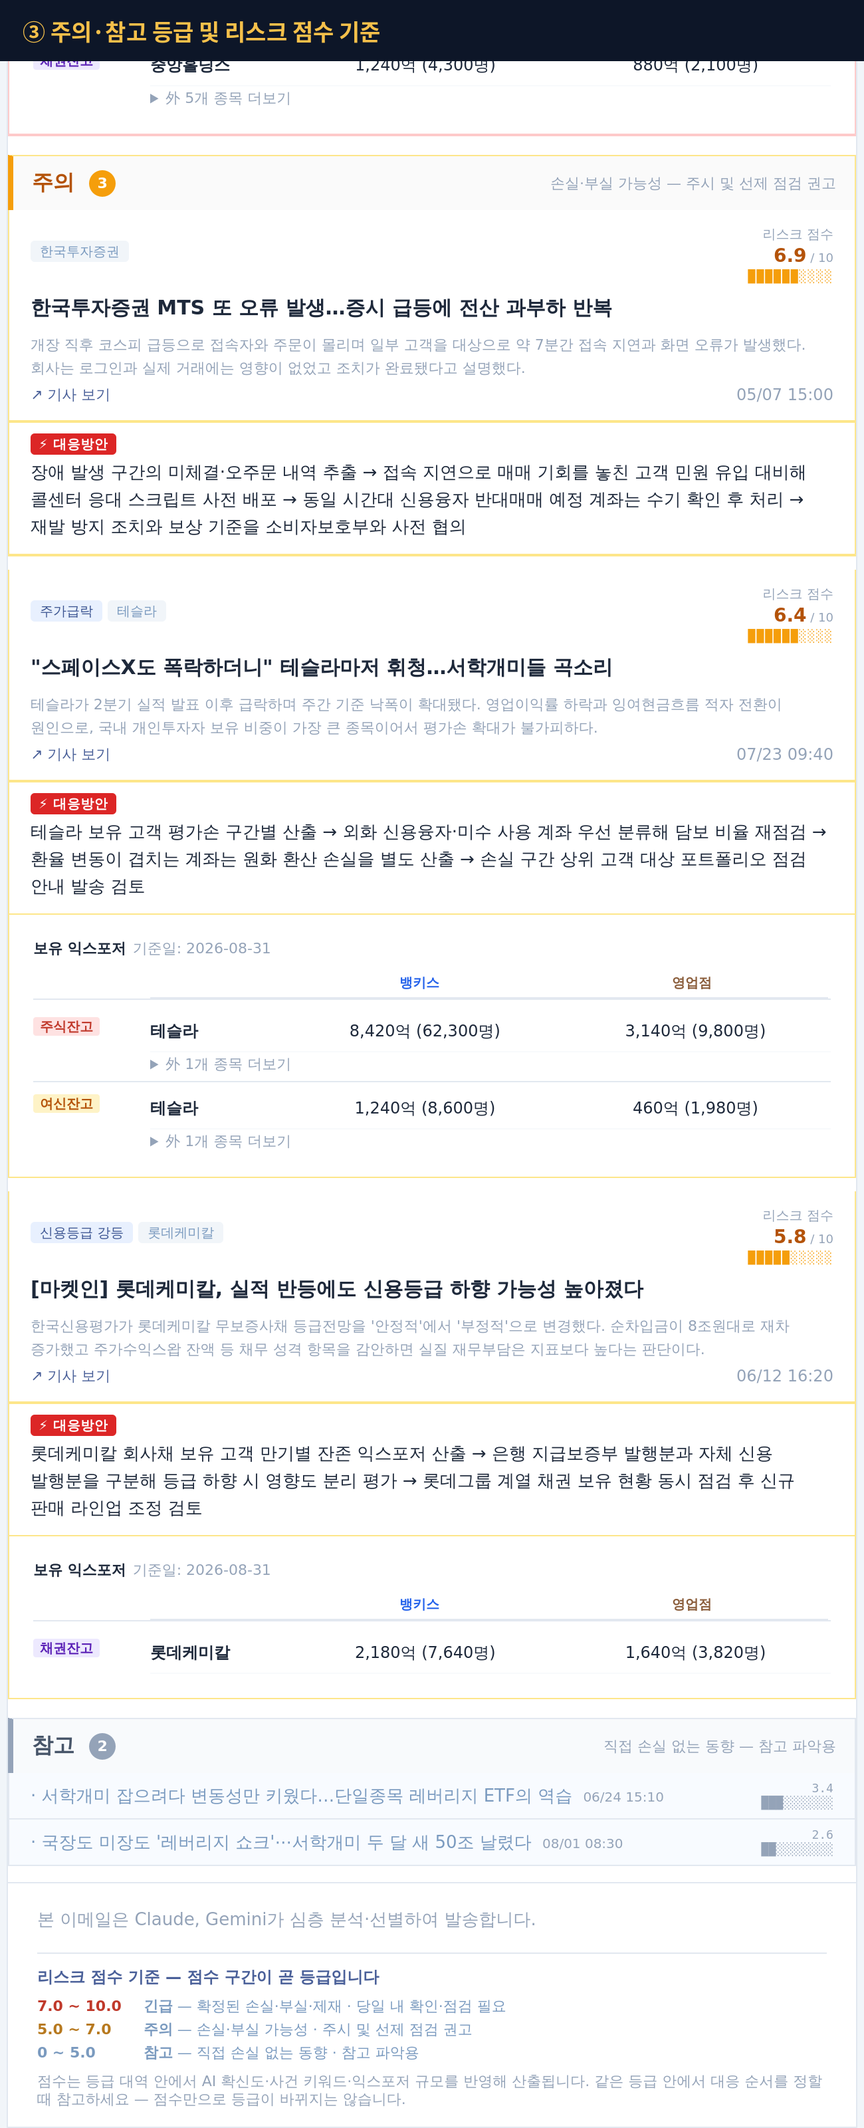
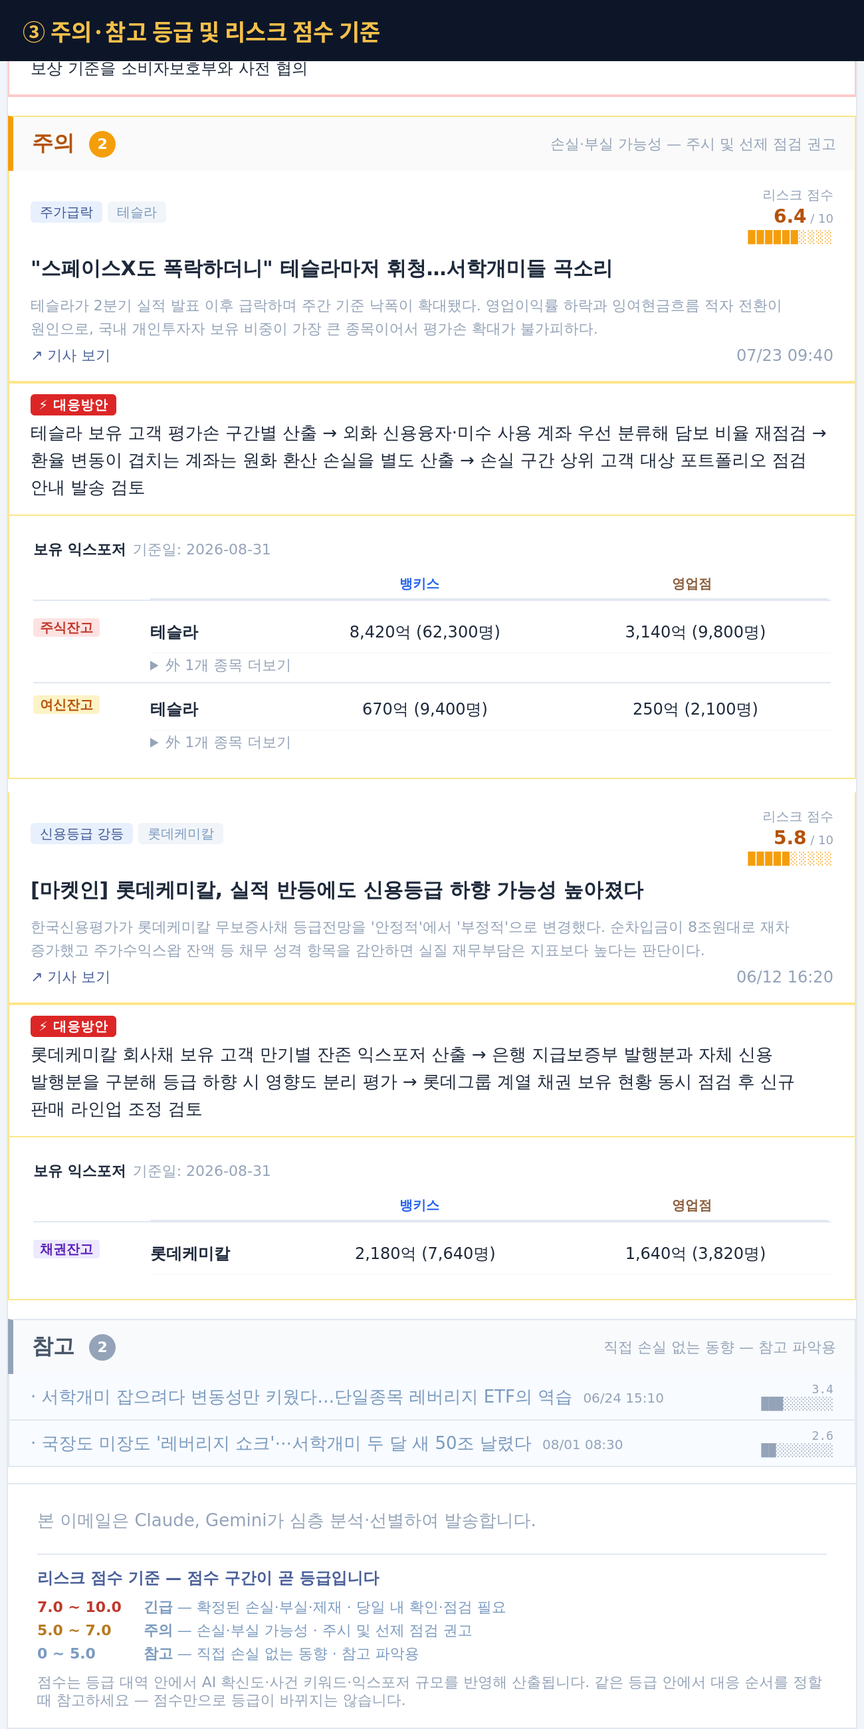
전산오류 긴급 복귀 · 해외 담보대출 잔고 현실 비율 조정

diff --git a/index.html b/index.html
@@ -76,14 +76,14 @@
             수집 1287건 &nbsp;·&nbsp; <span style="color:#6ee7b7;font-weight:600;">6건 선별</span>
           </td>
           <td align="right" style="font-size:12px;white-space:nowrap;">
-            <span style="color:#ef4444;font-weight:700;">긴급 1</span>
+            <span style="color:#ef4444;font-weight:700;">긴급 2</span>
             <span style="color:#4a6099;margin:0 5px;">·</span>
-            <span style="color:#f59e0b;font-weight:700;">주의 3</span>
+            <span style="color:#f59e0b;font-weight:700;">주의 2</span>
             <span style="color:#4a6099;margin:0 5px;">·</span>
             <span style="color:#94a3b8;font-weight:700;">참고 2</span>
           </td>
         </tr>
-        <tr><td colspan="2" style="padding-top:5px;font-size:11px;color:#c8d8f0;letter-spacing:0.2px;">💡 중앙그룹 5개사 동시 회생절차 신청으로 계열 채권 보유 고객의 원금 회수 위험이 현실화됐습니다. 주의 등급에는 당사 MTS 장애 보도, 테슬라·스페이스엑스 급락에 따른 해외주식 평가손, 롯데케미칼 등급전망 하향이 포함됐고, 참고 2건은 단일종목 레버리지 상품 변동성 확대입니다. 계열 채권 만기 물량, 장애 시간대 미체결 내역, 해외주식 신용 계좌를 우선 점검하시기 바랍니다.</td></tr>
+        <tr><td colspan="2" style="padding-top:5px;font-size:11px;color:#c8d8f0;letter-spacing:0.2px;">💡 중앙그룹 5개사 동시 회생절차 신청으로 계열 채권 보유 고객의 원금 회수 위험이 현실화됐습니다. 당사 MTS 장애 보도도 함께 긴급으로 탐지됐습니다. 주의 등급은 테슬라·스페이스엑스 급락에 따른 해외주식 평가손과 롯데케미칼 등급전망 하향이며, 참고 2건은 단일종목 레버리지 상품 변동성 확대입니다. 계열 채권 만기 물량, 장애 시간대 미체결 내역, 해외주식 신용 계좌를 우선 점검하시기 바랍니다.</td></tr>
       </table>
     </td>
   </tr>
@@ -195,7 +195,7 @@
           <span style="font-size:16px;font-weight:700;color:#3b5491;">📰 리스크 뉴스</span>
         </td>
         <td align="right" style="padding:10px 14px;font-size:10px;color:#94a3b8;white-space:nowrap;">
-          긴급 1 &nbsp;·&nbsp; 주의 3 &nbsp;·&nbsp; 참고 2
+          긴급 2 &nbsp;·&nbsp; 주의 2 &nbsp;·&nbsp; 참고 2
         </td>
       </tr>
     </table>
@@ -206,7 +206,7 @@
           <tr>
             <td style="padding:10px 14px;">
               <span style="font-size:16px;font-weight:bold;color:#dc2626;">긴급</span>
-              <span style="display:inline-block;width:20px;height:20px;line-height:20px;text-align:center;background:#ef4444;color:#fff;font-size:11px;font-weight:700;border-radius:50%;margin-left:6px;vertical-align:middle;">1</span>
+              <span style="display:inline-block;width:20px;height:20px;line-height:20px;text-align:center;background:#ef4444;color:#fff;font-size:11px;font-weight:700;border-radius:50%;margin-left:6px;vertical-align:middle;">2</span>
             </td>
             <td align="right" class="grade-header-right" style="padding:10px 14px;white-space:nowrap;">
               <span style="font-size:11px;background:#fee2e2;color:#c0392b;padding:2px 10px;border-radius:10px;font-weight:600;">확정된 손실·부실·제재 — 당일 내 확인·점검 필요</span>
@@ -239,36 +239,37 @@
       </td></tr>
     </table></td></tr></table></td></tr>
         </table>
+        <table width="100%" cellpadding="0" cellspacing="0" border="0" style="border:1px solid #fecaca;border-top:none;background:#ffffff;margin-bottom:0;">
+          <tr>
+            <td class="card-bg card-inner" bgcolor="#fff8f8" style="padding:12px 16px;background:#fff8f8;border-bottom:1px solid #f5c6c6;">
+              <table width="100%" cellpadding="0" cellspacing="0" border="0" style="margin-bottom:8px;">
+                <tr>
+                  <td class="badge-wrap" style="word-break:keep-all;"><span style="font-size:10px;background:#f1f5f9;color:#4a6099;padding:2px 7px;border-radius:3px;font-weight:600;white-space:nowrap;display:inline-block;">한국투자증권</span></td>
+                  <td align="right" valign="top" style="white-space:nowrap;padding-left:8px;"><div style="text-align:right;min-width:90px;"><div style="font-size:10px;color:#94a3b8;margin-bottom:2px;">리스크 점수</div><div style="font-size:14px;font-weight:700;color:#c0392b;margin-bottom:2px;">7.5<span style="font-size:9px;color:#94a3b8;font-weight:400;"> / 10</span></div><div style="font-size:9px;color:#c0392b;letter-spacing:1px;font-family:monospace;">███████░░░</div></div></td>
+                </tr>
+              </table>
+              <a href="https://www.speconomy.com/news/articleView.html?idxno=413529" class="title-link" style="font-weight:700;font-size:16px;text-decoration:none;color:#1e293b;line-height:1.6;word-break:keep-all;display:block;">한국투자증권 MTS 또 오류 발생…증시 급등에 전산 과부하 반복</a>
+              <table width="100%" cellpadding="0" cellspacing="0" border="0" style="margin:5px 0 8px 0;">
+                <tr>
+                  <td style="font-size:13px;"><a href="https://www.speconomy.com/news/articleView.html?idxno=413529" style="color:#4a6099;text-decoration:none;font-weight:500;">↗ 기사 보기</a></td>
+                  <td align="right" style="font-size:12px;color:#94a3b8;">05/07 15:00</td>
+                </tr>
+              </table>
+              <p style="margin:0;font-size:11px;color:#94a3b8;line-height:1.6;word-break:keep-all;">개장 직후 코스피 급등으로 접속자와 주문이 몰리며 일부 고객을 대상으로 약 7분간 접속 지연과 화면 오류가 발생했다. 회사는 로그인과 실제 거래에는 영향이 없었고 조치가 완료됐다고 설명했다.</p>
+            </td>
+          </tr>
+          <tr><td bgcolor="#fff8f8" style="background:#fff8f8;border-top:1px solid #fecaca;padding:0;"><table width="100%" cellpadding="0" cellspacing="0" border="0"><tr><td class="action-td" bgcolor="#ffffff" style="padding:10px 16px;border-bottom:1px solid #fecaca;background:#ffffff;"><p style="margin:0 0 5px 0;font-size:11px;font-weight:bold;letter-spacing:0.3px;"><span style="background:#dc2626;color:#fff;padding:2px 6px;font-size:10px;margin-right:5px;border-radius:3px;">⚡ 대응방안</span></p><p style="margin:0;font-size:12px;color:#1e293b;line-height:1.6;font-weight:600;word-break:keep-all;">장애 발생 구간의 미체결·오주문 내역 추출 → 접속 지연으로 매매 기회를 놓친 고객 민원 유입 대비해 콜센터 응대 스크립트 사전 배포 → 동일 시간대 신용융자 반대매매 예정 계좌는 수기 확인 후 처리 → 재발 방지 조치와 보상 기준을 소비자보호부와 사전 협의</p></td></tr></table></td></tr>
+        </table>
         <table width="100%" cellpadding="0" cellspacing="0" border="0" style="margin-top:14px;border:1px solid #fde68a;border-bottom:none;background:#fafafa;border-top:1px solid #fde68a;border-left:4px solid #f59e0b;">
           <tr>
             <td style="padding:10px 14px;">
               <span style="font-size:16px;font-weight:bold;color:#b45309;">주의</span>
-              <span style="display:inline-block;width:20px;height:20px;line-height:20px;text-align:center;background:#f59e0b;color:#fff;font-size:11px;font-weight:700;border-radius:50%;margin-left:6px;vertical-align:middle;">3</span>
+              <span style="display:inline-block;width:20px;height:20px;line-height:20px;text-align:center;background:#f59e0b;color:#fff;font-size:11px;font-weight:700;border-radius:50%;margin-left:6px;vertical-align:middle;">2</span>
             </td>
             <td align="right" class="grade-header-right" style="padding:10px 14px;white-space:nowrap;">
               <span style="font-size:11px;color:#94a3b8;">손실·부실 가능성 — 주시 및 선제 점검 권고</span>
             </td>
           </tr>
-        </table>
-        <table width="100%" cellpadding="0" cellspacing="0" border="0" style="border:1px solid #fde68a;border-top:none;background:#ffffff;margin-bottom:10px;">
-          <tr>
-            <td style="padding:12px 16px;border-bottom:1px solid #fde68a;">
-              <table width="100%" cellpadding="0" cellspacing="0" border="0" style="margin-bottom:6px;">
-                <tr>
-                  <td class="badge-wrap" style="word-break:keep-all;"><span style="display:inline-block;font-size:10px;color:#7a9abf;background:#f1f5f9;padding:2px 7px;margin-right:4px;margin-bottom:6px;border-radius:3px;white-space:nowrap;">한국투자증권</span></td>
-                  <td align="right" valign="top" style="white-space:nowrap;padding-left:8px;"><div style="text-align:right;min-width:90px;"><div style="font-size:10px;color:#94a3b8;margin-bottom:2px;">리스크 점수</div><div style="font-size:14px;font-weight:700;color:#b45309;margin-bottom:2px;">6.9<span style="font-size:9px;color:#94a3b8;font-weight:400;"> / 10</span></div><div style="font-size:9px;color:#f59e0b;letter-spacing:1px;font-family:monospace;">██████░░░░</div></div></td>
-                </tr>
-              </table>
-              <a href="https://www.speconomy.com/news/articleView.html?idxno=413529" class="title-link caution-title" style="font-weight:bold;font-size:15px;text-decoration:none;color:#1e293b;line-height:1.6;word-break:keep-all;display:block;">한국투자증권 MTS 또 오류 발생…증시 급등에 전산 과부하 반복</a><p style="margin:7px 0 0 0;font-size:11px;color:#94a3b8;line-height:1.6;word-break:keep-all;">개장 직후 코스피 급등으로 접속자와 주문이 몰리며 일부 고객을 대상으로 약 7분간 접속 지연과 화면 오류가 발생했다. 회사는 로그인과 실제 거래에는 영향이 없었고 조치가 완료됐다고 설명했다.</p>
-              <table width="100%" cellpadding="0" cellspacing="0" border="0" style="margin:4px 0 0 0;">
-                <tr>
-                  <td style="font-size:11px;"><a href="https://www.speconomy.com/news/articleView.html?idxno=413529" style="color:#4a6099;text-decoration:none;">↗ 기사 보기</a></td>
-                  <td align="right" style="font-size:12px;color:#94a3b8;">05/07 15:00</td>
-                </tr>
-              </table>
-            </td>
-          </tr>
-          <tr><td style="padding:10px 16px;background:#ffffff;border-top:1px solid #fde68a;border-bottom:1px solid #fde68a;"><p style="margin:0 0 5px 0;font-size:11px;font-weight:bold;letter-spacing:0.3px;"><span style="background:#dc2626;color:#fff;padding:2px 6px;font-size:10px;margin-right:5px;border-radius:3px;">⚡ 대응방안</span></p><p style="margin:0;font-size:13px;color:#1e293b;line-height:1.6;font-weight:500;word-break:keep-all;">장애 발생 구간의 미체결·오주문 내역 추출 → 접속 지연으로 매매 기회를 놓친 고객 민원 유입 대비해 콜센터 응대 스크립트 사전 배포 → 동일 시간대 신용융자 반대매매 예정 계좌는 수기 확인 후 처리 → 재발 방지 조치와 보상 기준을 소비자보호부와 사전 협의</p></td></tr>
         </table>
         <table width="100%" cellpadding="0" cellspacing="0" border="0" style="border:1px solid #fde68a;border-top:none;background:#ffffff;margin-bottom:10px;">
           <tr>
@@ -291,7 +292,7 @@
           <tr><td style="padding:10px 16px;background:#ffffff;border-top:1px solid #fde68a;border-bottom:1px solid #fde68a;"><p style="margin:0 0 5px 0;font-size:11px;font-weight:bold;letter-spacing:0.3px;"><span style="background:#dc2626;color:#fff;padding:2px 6px;font-size:10px;margin-right:5px;border-radius:3px;">⚡ 대응방안</span></p><p style="margin:0;font-size:13px;color:#1e293b;line-height:1.6;font-weight:500;word-break:keep-all;">테슬라 보유 고객 평가손 구간별 산출 → 외화 신용융자·미수 사용 계좌 우선 분류해 담보 비율 재점검 → 환율 변동이 겹치는 계좌는 원화 환산 손실을 별도 산출 → 손실 구간 상위 고객 대상 포트폴리오 점검 안내 발송 검토</p></td></tr><tr><td style="padding:0;"><table width="100%" cellpadding="0" cellspacing="0" border="0" style="background:#ffffff;">
       <tr><td class="exp-card-td" style="padding:14px 18px;">
         <p style="margin:0 0 10px 0;"><span style="font-size:11px;font-weight:700;color:#1e293b;">보유 익스포저</span> <span style="font-weight:400;color:#94a3b8;font-size:11px;">기준일: 2026-08-31</span></p>
-        <table width="100%" cellpadding="0" cellspacing="0" border="0" style="margin-bottom:8px;"><tr><td style="width:80px;border-bottom:1px solid #e2e8f0;">&nbsp;</td><td style="padding-left:8px;border-bottom:1px solid #e2e8f0;"><table cellpadding="0" cellspacing="0" border="0" style="border-collapse:collapse;table-layout:fixed;"><tr><td class="exp-name-td" width="100" style="border-bottom:1px solid #e2e8f0;">&nbsp;</td><td class="exp-val-td" width="205" align="center" style="box-sizing:border-box;text-align:center;padding:2px 6px 5px;font-size:10px;font-weight:700;color:#2563eb;border-bottom:1px solid #e2e8f0;white-space:nowrap;">뱅키스</td><td class="exp-val-td" width="205" align="center" style="box-sizing:border-box;text-align:center;padding:2px 6px 5px;font-size:10px;font-weight:700;color:#8b5e3c;border-bottom:1px solid #e2e8f0;white-space:nowrap;">영업점</td></tr></table></td></tr></table><table width="100%" cellpadding="0" cellspacing="0" border="0" style="margin-bottom:4px;"><tr><td valign="top" style="padding-top:6px;width:80px;white-space:nowrap;"><span style="font-size:10px;background:#fee2e2;color:#c0392b;padding:1px 5px;border-radius:2px;font-weight:700;">주식잔고</span></td><td style="padding-left:8px;"><table cellpadding="0" cellspacing="0" border="0" style="border-collapse:collapse;table-layout:fixed;"><tr style="border-bottom:1px solid #f8fafc;"><td class="exp-name-td" width="100" style="font-size:12px;font-weight:700;color:#1e293b;padding:8px 6px 8px 0;white-space:nowrap;vertical-align:top;"><div style="max-width:100%;overflow:hidden;text-overflow:ellipsis;white-space:nowrap;">테슬라</div></td><td class="exp-val-td" width="205" align="center" style="box-sizing:border-box;text-align:center;font-size:12px;color:#1e293b;padding:8px 6px;white-space:nowrap;vertical-align:top;">8,420억 (62,300명)</td><td class="exp-val-td" width="205" align="center" style="box-sizing:border-box;text-align:center;font-size:12px;color:#1e293b;padding:8px 6px;white-space:nowrap;vertical-align:top;">3,140억 (9,800명)</td></tr></table><details style="margin-top:0;"><summary style="cursor:pointer;list-style:revert;padding:2px 0;font-size:11px;color:#94a3b8;">外 1개 종목 더보기</summary><table cellpadding="0" cellspacing="0" border="0" style="border-collapse:collapse;table-layout:fixed;"><tr style="border-bottom:1px solid #f8fafc;"><td class="exp-name-td" width="100" style="font-size:12px;font-weight:700;color:#1e293b;padding:8px 6px 8px 0;white-space:nowrap;vertical-align:top;"><div style="max-width:100%;overflow:hidden;text-overflow:ellipsis;white-space:nowrap;">스페이스엑스</div></td><td class="exp-val-td" width="205" align="center" style="box-sizing:border-box;text-align:center;font-size:12px;color:#1e293b;padding:8px 6px;white-space:nowrap;vertical-align:top;">4,260억 (38,700명)</td><td class="exp-val-td" width="205" align="center" style="box-sizing:border-box;text-align:center;font-size:12px;color:#1e293b;padding:8px 6px;white-space:nowrap;vertical-align:top;">1,580억 (6,200명)</td></tr></table></details></td></tr></table><table width="100%" cellpadding="0" cellspacing="0" border="0" style="margin:4px 0;"><tr><td style="height:1px;background:#e2e8f0;font-size:0;line-height:0;">&nbsp;</td></tr></table><table width="100%" cellpadding="0" cellspacing="0" border="0" style="margin-bottom:4px;"><tr><td valign="top" style="padding-top:6px;width:80px;white-space:nowrap;"><span style="font-size:10px;background:#fef3c7;color:#b45309;padding:1px 5px;border-radius:2px;font-weight:700;">여신잔고</span></td><td style="padding-left:8px;"><table cellpadding="0" cellspacing="0" border="0" style="border-collapse:collapse;table-layout:fixed;"><tr style="border-bottom:1px solid #f8fafc;"><td class="exp-name-td" width="100" style="font-size:12px;font-weight:700;color:#1e293b;padding:8px 6px 8px 0;white-space:nowrap;vertical-align:top;"><div style="max-width:100%;overflow:hidden;text-overflow:ellipsis;white-space:nowrap;">테슬라</div></td><td class="exp-val-td" width="205" align="center" style="box-sizing:border-box;text-align:center;font-size:12px;color:#1e293b;padding:8px 6px;white-space:nowrap;vertical-align:top;">1,240억 (8,600명)</td><td class="exp-val-td" width="205" align="center" style="box-sizing:border-box;text-align:center;font-size:12px;color:#1e293b;padding:8px 6px;white-space:nowrap;vertical-align:top;">460억 (1,980명)</td></tr></table><details style="margin-top:0;"><summary style="cursor:pointer;list-style:revert;padding:2px 0;font-size:11px;color:#94a3b8;">外 1개 종목 더보기</summary><table cellpadding="0" cellspacing="0" border="0" style="border-collapse:collapse;table-layout:fixed;"><tr style="border-bottom:1px solid #f8fafc;"><td class="exp-name-td" width="100" style="font-size:12px;font-weight:700;color:#1e293b;padding:8px 6px 8px 0;white-space:nowrap;vertical-align:top;"><div style="max-width:100%;overflow:hidden;text-overflow:ellipsis;white-space:nowrap;">스페이스엑스</div></td><td class="exp-val-td" width="205" align="center" style="box-sizing:border-box;text-align:center;font-size:12px;color:#1e293b;padding:8px 6px;white-space:nowrap;vertical-align:top;">620억 (4,100명)</td><td class="exp-val-td" width="205" align="center" style="box-sizing:border-box;text-align:center;font-size:12px;color:#1e293b;padding:8px 6px;white-space:nowrap;vertical-align:top;">210억 (920명)</td></tr></table></details></td></tr></table>
+        <table width="100%" cellpadding="0" cellspacing="0" border="0" style="margin-bottom:8px;"><tr><td style="width:80px;border-bottom:1px solid #e2e8f0;">&nbsp;</td><td style="padding-left:8px;border-bottom:1px solid #e2e8f0;"><table cellpadding="0" cellspacing="0" border="0" style="border-collapse:collapse;table-layout:fixed;"><tr><td class="exp-name-td" width="100" style="border-bottom:1px solid #e2e8f0;">&nbsp;</td><td class="exp-val-td" width="205" align="center" style="box-sizing:border-box;text-align:center;padding:2px 6px 5px;font-size:10px;font-weight:700;color:#2563eb;border-bottom:1px solid #e2e8f0;white-space:nowrap;">뱅키스</td><td class="exp-val-td" width="205" align="center" style="box-sizing:border-box;text-align:center;padding:2px 6px 5px;font-size:10px;font-weight:700;color:#8b5e3c;border-bottom:1px solid #e2e8f0;white-space:nowrap;">영업점</td></tr></table></td></tr></table><table width="100%" cellpadding="0" cellspacing="0" border="0" style="margin-bottom:4px;"><tr><td valign="top" style="padding-top:6px;width:80px;white-space:nowrap;"><span style="font-size:10px;background:#fee2e2;color:#c0392b;padding:1px 5px;border-radius:2px;font-weight:700;">주식잔고</span></td><td style="padding-left:8px;"><table cellpadding="0" cellspacing="0" border="0" style="border-collapse:collapse;table-layout:fixed;"><tr style="border-bottom:1px solid #f8fafc;"><td class="exp-name-td" width="100" style="font-size:12px;font-weight:700;color:#1e293b;padding:8px 6px 8px 0;white-space:nowrap;vertical-align:top;"><div style="max-width:100%;overflow:hidden;text-overflow:ellipsis;white-space:nowrap;">테슬라</div></td><td class="exp-val-td" width="205" align="center" style="box-sizing:border-box;text-align:center;font-size:12px;color:#1e293b;padding:8px 6px;white-space:nowrap;vertical-align:top;">8,420억 (62,300명)</td><td class="exp-val-td" width="205" align="center" style="box-sizing:border-box;text-align:center;font-size:12px;color:#1e293b;padding:8px 6px;white-space:nowrap;vertical-align:top;">3,140억 (9,800명)</td></tr></table><details style="margin-top:0;"><summary style="cursor:pointer;list-style:revert;padding:2px 0;font-size:11px;color:#94a3b8;">外 1개 종목 더보기</summary><table cellpadding="0" cellspacing="0" border="0" style="border-collapse:collapse;table-layout:fixed;"><tr style="border-bottom:1px solid #f8fafc;"><td class="exp-name-td" width="100" style="font-size:12px;font-weight:700;color:#1e293b;padding:8px 6px 8px 0;white-space:nowrap;vertical-align:top;"><div style="max-width:100%;overflow:hidden;text-overflow:ellipsis;white-space:nowrap;">스페이스엑스</div></td><td class="exp-val-td" width="205" align="center" style="box-sizing:border-box;text-align:center;font-size:12px;color:#1e293b;padding:8px 6px;white-space:nowrap;vertical-align:top;">4,260억 (38,700명)</td><td class="exp-val-td" width="205" align="center" style="box-sizing:border-box;text-align:center;font-size:12px;color:#1e293b;padding:8px 6px;white-space:nowrap;vertical-align:top;">1,580억 (6,200명)</td></tr></table></details></td></tr></table><table width="100%" cellpadding="0" cellspacing="0" border="0" style="margin:4px 0;"><tr><td style="height:1px;background:#e2e8f0;font-size:0;line-height:0;">&nbsp;</td></tr></table><table width="100%" cellpadding="0" cellspacing="0" border="0" style="margin-bottom:4px;"><tr><td valign="top" style="padding-top:6px;width:80px;white-space:nowrap;"><span style="font-size:10px;background:#fef3c7;color:#b45309;padding:1px 5px;border-radius:2px;font-weight:700;">여신잔고</span></td><td style="padding-left:8px;"><table cellpadding="0" cellspacing="0" border="0" style="border-collapse:collapse;table-layout:fixed;"><tr style="border-bottom:1px solid #f8fafc;"><td class="exp-name-td" width="100" style="font-size:12px;font-weight:700;color:#1e293b;padding:8px 6px 8px 0;white-space:nowrap;vertical-align:top;"><div style="max-width:100%;overflow:hidden;text-overflow:ellipsis;white-space:nowrap;">테슬라</div></td><td class="exp-val-td" width="205" align="center" style="box-sizing:border-box;text-align:center;font-size:12px;color:#1e293b;padding:8px 6px;white-space:nowrap;vertical-align:top;">670억 (9,400명)</td><td class="exp-val-td" width="205" align="center" style="box-sizing:border-box;text-align:center;font-size:12px;color:#1e293b;padding:8px 6px;white-space:nowrap;vertical-align:top;">250억 (2,100명)</td></tr></table><details style="margin-top:0;"><summary style="cursor:pointer;list-style:revert;padding:2px 0;font-size:11px;color:#94a3b8;">外 1개 종목 더보기</summary><table cellpadding="0" cellspacing="0" border="0" style="border-collapse:collapse;table-layout:fixed;"><tr style="border-bottom:1px solid #f8fafc;"><td class="exp-name-td" width="100" style="font-size:12px;font-weight:700;color:#1e293b;padding:8px 6px 8px 0;white-space:nowrap;vertical-align:top;"><div style="max-width:100%;overflow:hidden;text-overflow:ellipsis;white-space:nowrap;">스페이스엑스</div></td><td class="exp-val-td" width="205" align="center" style="box-sizing:border-box;text-align:center;font-size:12px;color:#1e293b;padding:8px 6px;white-space:nowrap;vertical-align:top;">260억 (3,800명)</td><td class="exp-val-td" width="205" align="center" style="box-sizing:border-box;text-align:center;font-size:12px;color:#1e293b;padding:8px 6px;white-space:nowrap;vertical-align:top;">95억 (860명)</td></tr></table></details></td></tr></table>
       </td></tr>
     </table></td></tr>
         </table>
